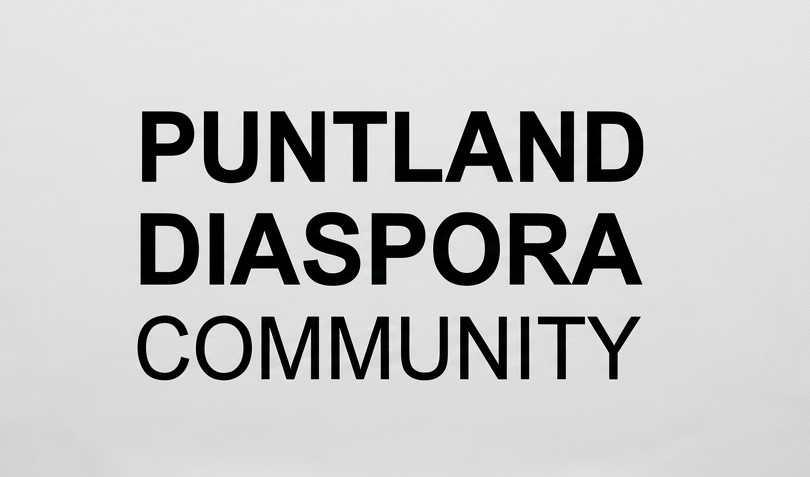
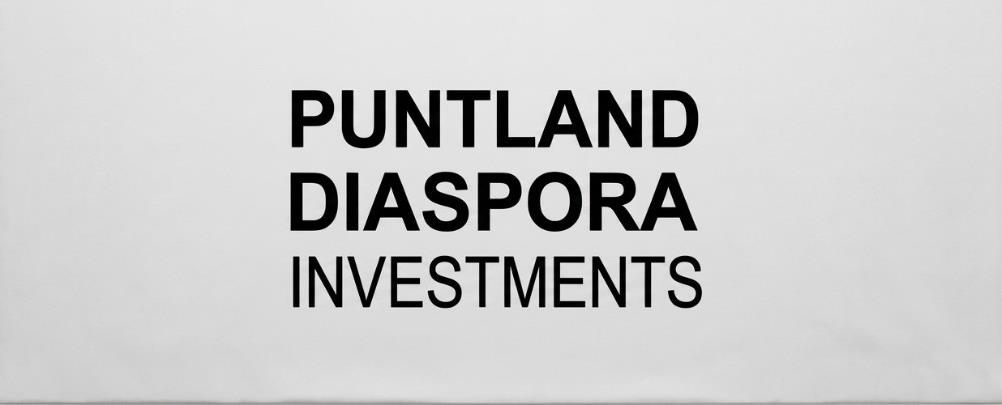
Update Diaspora card, hero sector pills, and slide framing.

Changed region(s): [[0.1543, 0.4148, 0.8025, 0.8], [0.1543, 0.2074, 0.8025, 0.3852], [0.0, 0.9778, 1.0, 1.0]]

diff --git a/components/HeroSpotlight.tsx b/components/HeroSpotlight.tsx
@@ -81,6 +81,72 @@ const scenes = [
     href: "/health-financing",
     cta: "Explore health",
   },
+  {
+    id: "renewable",
+    tab: "Renewable Energy",
+    src: "/slides/renewable-energy-hero.jpg",
+    alt: "Electricity pylons and power lines silhouetted against a sunset sky",
+    object: "object-cover object-[center_40%]",
+    headline: "Renewable Energy",
+    body: "Climate-aligned financing that cuts energy costs and powers productive growth across Puntland.",
+    href: "/renewable-energy",
+    cta: "Explore energy",
+  },
+  {
+    id: "export",
+    tab: "Export & Manufacturing",
+    src: "/slides/export-manufacturing-hero.jpg",
+    alt: "Aerial view of a harbor and coastal facilities supporting trade",
+    object: "object-cover object-center",
+    headline: "Export & Manufacturing",
+    body: "Capital for processing, manufacturing, and trade that expands Puntland’s export capacity.",
+    href: "/export-and-manufacturing",
+    cta: "Explore export",
+  },
+  {
+    id: "digital",
+    tab: "Digital Economy",
+    src: "/slides/digital-economy.jpg",
+    alt: "Server aisle in a modern data center",
+    object: "object-cover object-[center_40%]",
+    headline: "Digital Economy",
+    body: "Financing for digital services, fintech, and connectivity that open new opportunities.",
+    href: "/digital-economy",
+    cta: "Explore digital",
+  },
+  {
+    id: "mining",
+    tab: "Mining",
+    src: "/slides/mining-natural-resources.jpg",
+    alt: "Heavy machinery working in an open mining quarry",
+    object: "object-cover object-[center_45%]",
+    headline: "Mining & Natural Resources",
+    body: "Responsible development of minerals and natural resources with local value and jobs.",
+    href: "/mining-natural-resources",
+    cta: "Explore mining",
+  },
+  {
+    id: "women-youth",
+    tab: "Women & Youth",
+    src: "/slides/women-youth-led-business.jpg",
+    alt: "A woman holding handmade knitted bags in front of bookshelves",
+    object: "object-cover object-[center_12%]",
+    headline: "Women and Youth Led Business",
+    body: "Financing for women- and youth-led enterprises that create jobs across Puntland.",
+    href: "/women-youth-led-business",
+    cta: "Explore women and youth",
+  },
+  {
+    id: "diaspora",
+    tab: "Diaspora",
+    src: "/slides/diaspora.jpg",
+    alt: "Puntland diaspora community gathered at round tables for a formal event",
+    object: "object-cover object-center",
+    headline: "Diaspora Investment",
+    body: "Financing that helps the Puntland diaspora invest in businesses, jobs, and growth at home.",
+    href: "/diaspora",
+    cta: "Explore diaspora",
+  },
 ] as const;
 
 const SLIDE_INTERVAL_MS = 9000;

diff --git a/app/diaspora/page.tsx b/app/diaspora/page.tsx
@@ -66,37 +66,7 @@ export default function DiasporaPage() {
             ),
             src: "/slides/diaspora-flag.jpg",
             alt: "Three women holding the Puntland flag at a diaspora gathering",
-            objectClassName: "object-cover object-[center_30%]",
-          },
-          {
-            title: "Diaspora Investment",
-            heading: "What PDIB finances",
-            body: (
-              <p>
-                We support diaspora-backed enterprises, joint ventures, and
-                remittance-linked investment into agriculture, livestock,
-                fisheries, infrastructure, and SMEs — so capital from abroad
-                becomes lasting local value.
-              </p>
-            ),
-            src: "/slides/diaspora.jpg",
-            alt: "Puntland diaspora community gathered at round tables for a formal event",
-            objectClassName: "object-cover object-center",
-          },
-          {
-            title: "Diaspora Investment",
-            heading: "Invest with confidence",
-            body: (
-              <p>
-                Our role is to reduce risk and raise impact — matching diaspora
-                investors with bankable projects, local partners, and
-                development finance that strengthens Puntland&apos;s productive
-                economy.
-              </p>
-            ),
-            src: "/slides/diaspora.jpg",
-            alt: "Puntland diaspora community gathered at round tables for a formal event",
-            objectClassName: "object-cover object-center",
+            objectClassName: "object-cover object-[center_18%]",
           },
           {
             title: "Diaspora Investment",
@@ -110,7 +80,7 @@ export default function DiasporaPage() {
             ),
             src: "/slides/diaspora-dance.jpg",
             alt: "Two dancers in traditional dress performing at a diaspora community event",
-            objectClassName: "object-cover object-[center_40%]",
+            objectClassName: "object-cover object-[center_22%]",
           },
           {
             title: "Diaspora Investment",
@@ -124,7 +94,7 @@ export default function DiasporaPage() {
             ),
             src: "/slides/diaspora-leaders.jpg",
             alt: "Diaspora community leaders standing together at a formal gathering",
-            objectClassName: "object-cover object-[center_35%]",
+            objectClassName: "object-cover object-[center_22%]",
           },
         ]}
       />

diff --git a/components/WhatWeDo.tsx b/components/WhatWeDo.tsx
@@ -107,7 +107,9 @@ const focusAreas = [
     blurb: "Channeling diaspora capital into productive investment across Puntland.",
     href: "/diaspora",
     src: "/slides/diaspora-card.jpg",
-    alt: "Puntland Diaspora Community wordmark",
+    alt: "Puntland Diaspora Investments wordmark",
+    imageClass: "object-contain object-center",
+    imageWrapClass: "aspect-[16/10] bg-[#dddddd]",
   },
 ] as const;
 
@@ -118,6 +120,10 @@ function SectorPromoCard({ area }: { area: FocusArea }) {
     "imageClass" in area && typeof area.imageClass === "string"
       ? area.imageClass
       : "object-cover";
+  const imageWrapClass =
+    "imageWrapClass" in area && typeof area.imageWrapClass === "string"
+      ? area.imageWrapClass
+      : "aspect-[16/10] bg-[#F3F3F5]";
 
   return (
     <article className="h-full">
@@ -138,7 +144,7 @@ function SectorPromoCard({ area }: { area: FocusArea }) {
           </span>
         </div>
 
-        <div className="relative -mt-px aspect-[16/10] w-full overflow-hidden bg-[#F3F3F5]">
+        <div className={`relative -mt-px w-full overflow-hidden ${imageWrapClass}`}>
           <Image
             src={area.src}
             alt={area.alt}

diff --git a/components/AreasOfIntervention.tsx b/components/AreasOfIntervention.tsx
@@ -125,7 +125,7 @@ export const interventionAreas: InterventionArea[] = [
     href: "/diaspora",
     icon: "diaspora",
     src: "/slides/diaspora-card.jpg",
-    alt: "Puntland Diaspora Community wordmark",
+    alt: "Puntland Diaspora Investments wordmark",
     description:
       "Financing that helps the Puntland diaspora invest in businesses, jobs, and productive growth at home.",
   },
